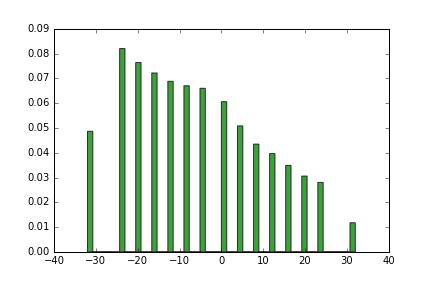
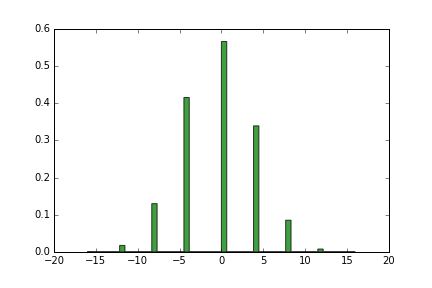
Introduced a new version of MH algorithm that calculates transition probabilities for a Markov chain across the decks using priors.

diff --git a/MH_sampling_2pams_v2.py b/MH_sampling_2pams_v2.py
@@ -15,39 +15,12 @@ import cPickle
 import MH_dataset_generator as mh
 import ising_model_princeton2 as I
 import matplotlib.pyplot as plt
-
+import collections
 from sklearn.tree import DecisionTreeClassifier
 from sklearn.decomposition import PCA
 from sklearn.preprocessing import scale
 from operator import itemgetter
-
-nr=input('Enter the dimension N of the square lattice -->')
-reps=nr*nr # number of lattice sites
-
-# generate complete dataset
-(training_data,training_H,training_M)=mh.complete_dataset(reps)
-train_labels=mh.gen_train_labels(training_data, training_H, training_M)
-#partition into training 90% and testing 10% datasets
-[train,test]=mh.partition(training_data,train_labels)
-train_set=train[0]
-train_y=train[1]
-test_set=test[0]
-test_y=test[1]
-test_classes=np.unique(test_y)
-train_classes=np.unique(train_y)
-training=[]
-testing=[]
-for i in range(len(train_set)):
-    row=train_set[i]
-    training.append(np.hstack((row,train_y[i])))
-for i in range(len(test_set)):    
-    row2=test_set[i]
-    testing.append(np.hstack((row2,test_y[i])))
-np.reshape(testing,(len(testing),17))
-np.reshape(training,(len(training),17))
-    
-train2=sorted(training,key=itemgetter(-1))
-test2=sorted(testing,key=itemgetter(-1))
+from scipy import stats
 # plotting data    
 def show_results(outer_set,temp_val, all_M, all_H):
     fig = plt.figure()
@@ -116,9 +89,31 @@ def choose_level(data,classes,deck):
             deck=deck-1
         else:    
             deck=deck+1
-    return deck   # return  candidate energy level     
+    return deck   # return  candidate energy level 
+    
+def choose_level2(classes, deck, freq):
+    if deck==np.min(classes):
+        deck=deck+1
+    elif deck==np.max(classes):
+        deck=deck-1
+    else:
+        pr=np.zeros(2)
+        prob1=freq[deck-1]
+        prob2=freq[deck+1]
+        s=prob1+prob2
+        pr[0]=prob1/s
+        pr[1]=prob2/s
+        xk=np.arange(2)
+        custm=stats.rv_discrete(name='custm',values=(xk,pr))
+        beta=custm.rvs(size=1)
+        
+        if beta[0]==0:
+            deck=deck-1
+        else:
+            deck=deck+1
+    return deck
               
-def get_MH_sampled_IDs(data,classes):
+def get_MH_sampled_IDs(data,classes,freq):
     #temp_val=[x for x in np.arange(0.001,20.0, 0.1)]
     #temp_val=[x for x in np.arange(0.001,20.0, 0.1)]
     temp_val=[40]    
@@ -139,21 +134,22 @@ def get_MH_sampled_IDs(data,classes):
             Hs=[]
             a1=I.Ising_lattice(nr)
             a1.random_conf(data)
-            conf1=a1._spins
-            En_1=a1._E
-            M_1=a1._M
+            conf=a1._spins
+            En=a1._E
+            M=a1._M
             deck=a1._deck #https://www.google.ca/?gws_rd=ssl initialization
             for k in range(iters): # num of MH steps
                 #print 'fix this'
                 kB = 1.0
                 # let us consider another configuration
-                label=choose_level(data,classes,deck) # next candidate from the label group
+                label=choose_level2(classes,deck,freq) # next candidate from the label group
+                #label=randint(np.max([0,deck-1]),np.min([np.max(classes),deck+1]))                
                 ids=np.where(dat[:,-1]==label)
                 idd=ids[0]
                 group=dat[idd]# look at this level group
                 (conf2, En_2, M_2)=rand_move(group,nr)
                 # calc whether it goes uphill
-                dE=En_2-En_1
+                dE=En_2-En
                 if (dE<0.0):
                     #accept
                     conf=conf2 # go downhill
@@ -171,37 +167,16 @@ def get_MH_sampled_IDs(data,classes):
                         M=M_2
                         flag=1
                         deck=label
-                    else:
-                        #stay where you are
-                        conf=conf1
-                        En=En_1
-                        M=M_1
-                        flag=0
-
-                # update conf1
-                conf1=conf 
-                En_1=En
-                M_1=M
 
 #                we have now decided to either stay where we were, or change
 #                provided we are past the warm up stage, let's store the result
-
                 if k>=3000:
                     R.append(np.hstack((np.reshape(conf,(nr*nr)),En,M)))
                     all_M.append(M)
                     all_H.append(En)
                     Hs.append(En)
             outer_set[n]=Hs
-                # record configuration and its properties
-            
-                #if k>=3000:
-                    #R.append(np.hstack((np.reshape(conf,(nr*nr)),En,M)))
-                    #all_M.append(M)
-                    #all_H.append(En)
-                #else:
-                    #continue
-    
-         #a.diagram()
+        
         #t1 = np.arange(0, len(outer_set[0]))
         #t2 = np.arange(0, len(outer_set[99]))
 
@@ -226,11 +201,54 @@ def histogr(output):
     P.figure()
     n, bins, patches = P.hist(output, 50, normed=1, histtype='stepfilled')
     P.setp(patches, 'facecolor', 'g', 'alpha', 0.75)
-    P.savefig('Hamil_test_2pams_40.png')     
+    P.savefig('Hamil_compl_40.png')     
 
-train_res=get_MH_sampled_IDs(train2,train_classes) 
-H=[]
-for i in range(len(train_res)):
-    H.append(train_res[i][-2])
-histogr(H)    
+def main():
+    nr=input('Enter the dimension N of the square lattice -->')
+    reps=nr*nr # number of lattice sites
+
+    # generate complete dataset
+    (training_data,training_H,training_M)=mh.complete_dataset(reps)
+    train_labels=mh.gen_train_labels(training_data, training_H, training_M)
+    # compute frequesncies
+    counter=collections.Counter(train_labels)
+    val=counter.values()
+    freq=np.array(val)/np.float(len(train_labels))
+
+    #partition into training 90% and testing 10% datasets
+    #[train,test]=mh.partition(training_data,train_labels)
+    #train_set=train[0]
+    #train_y=train[1]
+    #test_set=test[0]
+    #test_y=test[1]
+    #test_classes=np.unique(test_y)
+    #train_classes=np.unique(train_y)
+    #training=[]
+    #testing=[]
+    #for i in range(len(train_set)):
+    #row=train_set[i]
+    #training.append(np.hstack((row,train_y[i])))
+    #for i in range(len(test_set)):    
+    #row2=test_set[i]
+    #testing.append(np.hstack((row2,test_y[i])))
+    #np.reshape(testing,(len(testing),17))
+    #np.reshape(training,(len(training),17))
+    
+    #train2=sorted(training,key=itemgetter(-1))
+    #test2=sorted(testing,key=itemgetter(-1))
+    train=[]
+    for i in range(len(training_data)):    
+        row2=training_data[i]
+        train.append(np.hstack((row2,train_labels[i])))
+    np.reshape(train,(len(train),17))
+    
+    train2=sorted(train,key=itemgetter(-1))
+    train_classes=np.unique(train_labels)    
+    train_res=get_MH_sampled_IDs(train2,train_classes,freq) 
+    H=[]
+    for i in range(len(train_res)):
+        H.append(train_res[i][-2])
+    histogr(H)    
  
+if __name__=='__main__':
+    main()

diff --git a/MH_dataset_generator.py b/MH_dataset_generator.py
@@ -56,13 +56,13 @@ def complete_dataset(reps):
     return (training_data,training_H,training_M)
     
 def gen_train_labels(training_data, training_H, training_M):
-    expr=input('Enter "H" for Hamiltonian energy estimation and "M" for magnetization -->')
-    if expr=="H":
+    #expr=input('Enter "H" for Hamiltonian energy estimation and "M" for magnetization -->')
+    #if expr=="H":
         #choose the seconf last column in the dataset
-        train_labels=training_H # Hamiltonian
-    else:
-        train_labels=training_M
-    
+    #    train_labels=training_H # Hamiltonian
+    #else:
+    #    train_labels=training_M
+    train_labels=training_H
     # map Hamiltonian or magnetization data into classes    
     classes=np.unique(train_labels)
     num_classes=len(classes)
